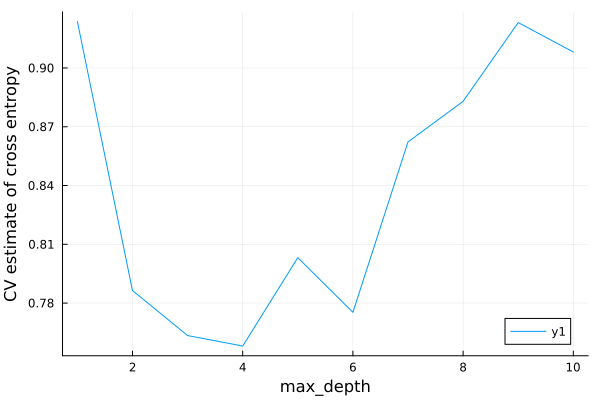
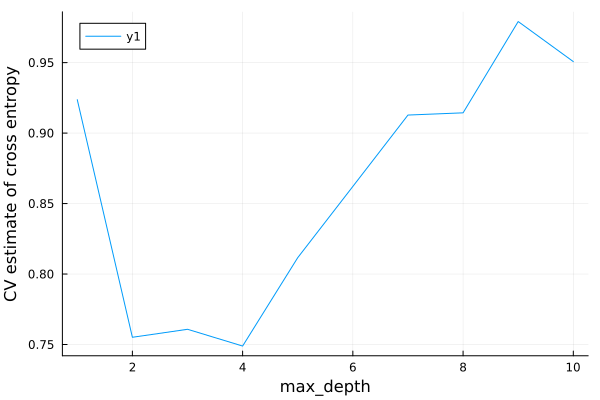
update notebook markdown

diff --git a/docs/src/notebooks/MLJTutorial/99_solution_to_exercises/notebook.md b/docs/src/notebooks/MLJTutorial/99_solution_to_exercises/notebook.md
@@ -50,8 +50,8 @@ A = rand(2, 3)
 
 ````
 2×3 Matrix{Float64}:
- 0.825126  0.927631  0.216194
- 0.969753  0.343094  0.567502
+ 0.436654  0.811629   0.363581
+ 0.781021  0.0747531  0.439646
 ````
 
 ````@julia
@@ -77,8 +77,8 @@ Asparse = sparse(A)
 
 ````
 2×3 SparseArrays.SparseMatrixCSC{Float64, Int64} with 6 stored entries:
- 0.825126  0.927631  0.216194
- 0.969753  0.343094  0.567502
+ 0.436654  0.811629   0.363581
+ 0.781021  0.0747531  0.439646
 ````
 
 ````@julia
@@ -95,8 +95,8 @@ C = coerce(A, Multiclass)
 
 ````
 2×3 CategoricalArrays.CategoricalArray{Float64,2,UInt32}:
- 0.825126  0.927631  0.216194
- 0.969753  0.343094  0.567502
+ 0.436654  0.811629  0.363581
+ 0.781021  0.0747531  0.439646
 ````
 
 ````@julia
@@ -142,7 +142,7 @@ AbstractVector{Union{Missing, Count}} (alias for AbstractArray{Union{Missing, Sc
 
 #### Exercise 2 solution
 
-From the question statement:
+From the question statement, we have:
 
 ````@julia
 quality = ["good", "poor", "poor", "excellent", missing, "good", "excellent"]
@@ -326,16 +326,16 @@ y4 = [n_devices(row.salary) for row in eachrow(X4)]
 
 ````
 10-element Vector{Int64}:
+ 5
+ 1
  4
- 3
+ 2
+ 2
+ 2
+ 0
+ 4
  3
  1
- 5
- 2
- 3
- 4
- 2
- 2
 ````
 
 4(a)
@@ -411,10 +411,10 @@ pretty(X)
 │ Float64    │ Float64    │
 │ Continuous │ Continuous │
 ├────────────┼────────────┤
-│ 0.362136   │ 0.40804    │
-│ 0.910894   │ 0.507141   │
-│ 0.606253   │ 0.58319    │
-│ 0.952481   │ 0.424991   │
+│ 0.961707   │ 0.368005   │
+│ 0.834368   │ 0.482366   │
+│ 0.543462   │ 0.680675   │
+│ 0.41441    │ 0.273404   │
 └────────────┴────────────┘
 
 ````
@@ -589,19 +589,19 @@ PerformanceEvaluation object with these fields:
   measurement, uncertainty_radius_95, per_fold, per_observation,
   fitted_params_per_fold, report_per_fold,
   train_test_rows, resampling, repeats
-Tag: RandomForestClassifier-367
+Tag: RandomForestClassifier-171
 Extract:
 ┌──────────────────────┬───────────┬─────────────┐
 │ measure              │ operation │ measurement │
 ├──────────────────────┼───────────┼─────────────┤
-│ LogLoss(             │ predict   │ 1.11        │
+│ LogLoss(             │ predict   │ 1.1         │
 │   tol = 2.22045e-16) │           │             │
 └──────────────────────┴───────────┴─────────────┘
-┌─────────────────────────────────────────┬─────────┐
-│ per_fold                                │ 1.96*SE │
-├─────────────────────────────────────────┼─────────┤
-│ [0.802, 1.39, 1.77, 0.782, 1.24, 0.675] │ 0.377   │
-└─────────────────────────────────────────┴─────────┘
+┌───────────────────────────────────────┬─────────┐
+│ per_fold                              │ 1.96*SE │
+├───────────────────────────────────────┼─────────┤
+│ [1.28, 1.38, 1.76, 0.778, 0.72, 0.66] │ 0.391   │
+└───────────────────────────────────────┴─────────┘
 
 ````
 
@@ -660,7 +660,7 @@ err_forest =
 ````
 
 ````
-1.288531123202012
+1.285130671948529
 ````
 
 #### Exercise 7
@@ -725,18 +725,18 @@ PerformanceEvaluation object with these fields:
   measurement, uncertainty_radius_95, per_fold, per_observation,
   fitted_params_per_fold, report_per_fold,
   train_test_rows, resampling, repeats
-Tag: ProbabilisticPipeline-169
+Tag: ProbabilisticPipeline-956
 Extract:
 ┌──────────────────────┬───────────┬─────────────┐
 │ measure              │ operation │ measurement │
 ├──────────────────────┼───────────┼─────────────┤
-│ LogLoss(             │ predict   │ 0.863       │
+│ LogLoss(             │ predict   │ 0.92        │
 │   tol = 2.22045e-16) │           │             │
 └──────────────────────┴───────────┴─────────────┘
 ┌──────────────────────────────────────────┬─────────┐
 │ per_fold                                 │ 1.96*SE │
 ├──────────────────────────────────────────┼─────────┤
-│ [0.944, 1.0, 0.722, 0.816, 0.873, 0.821] │ 0.087   │
+│ [0.943, 1.27, 0.779, 0.792, 0.95, 0.786] │ 0.166   │
 └──────────────────────────────────────────┴─────────┘
 
 ````
@@ -828,7 +828,7 @@ PerformanceEvaluation object with these fields:
   measurement, uncertainty_radius_95, per_fold, per_observation,
   fitted_params_per_fold, report_per_fold,
   train_test_rows, resampling, repeats
-Tag: DeterministicPipeline-714
+Tag: DeterministicPipeline-792
 Extract:
 ┌──────────┬───────────┬─────────────┐
 │ measure  │ operation │ measurement │
@@ -854,7 +854,7 @@ PerformanceEvaluation object with these fields:
   measurement, uncertainty_radius_95, per_fold, per_observation,
   fitted_params_per_fold, report_per_fold,
   train_test_rows, resampling, repeats
-Tag: DeterministicTunedModel-634
+Tag: DeterministicTunedModel-143
 Extract:
 ┌──────────┬───────────┬─────────────┐
 │ measure  │ operation │ measurement │
